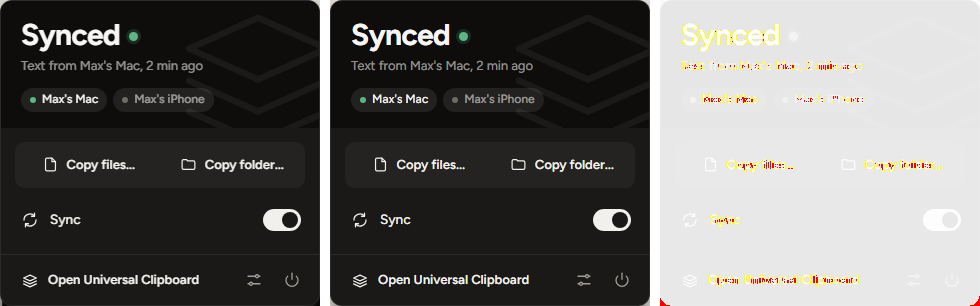
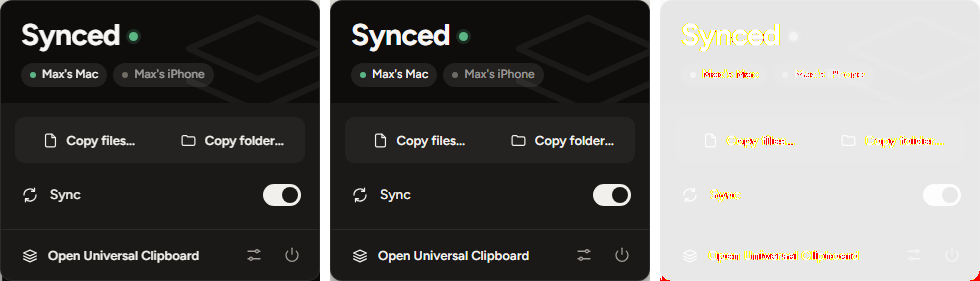
Tray panel: drop the unused status line code
The panel stopped showing the status line (Max 2026-11-17), but panelView still
worked it out. Removes sub, fact, shortAgo and the 30 s clock that only fed them.

diff --git a/apps/desktop/src/screens/panel.test.ts b/apps/desktop/src/screens/panel.test.ts
@@ -3,7 +3,7 @@ import { describe, expect, it } from 'vitest';
 import Panel from '../Panel.svelte';
 import { setApi } from '../lib/ipc';
 import { createMockApi, type Scenario } from '../lib/mock';
-import { panelView, shortAgo } from '../lib/panel';
+import { panelView } from '../lib/panel';
 import type { Device, Status } from '../lib/types';
 
 async function open(scenario: Scenario) {
@@ -35,16 +35,15 @@ const devs: Device[] = [
 
 describe('panelView', () => {
   const now = 1_000_000_000;
-  it('synced shows one short fact and the other devices', () => {
+  it('synced shows the other devices and no status line', () => {
     const v = panelView(
       status({ activity: [{ kind: 'Text', direction: 'received', device: "Max's Mac", time_ms: now - 120_000, note: null }] }),
       devs,
       null,
-      now,
     );
     expect(v.word).toBe('Synced');
     expect(v.lamp).toBe('ok');
-    expect(v.sub).toBe("Text from Max's Mac, 2 min ago");
+    expect(v).not.toHaveProperty('sub');
     expect(v.chips).toEqual([
       { name: "Max's Mac", on: true },
       { name: "Max's iPhone", on: false },
@@ -53,34 +52,27 @@ describe('panelView', () => {
   });
   it('a transfer is only a bar and a percent, no fact line', () => {
     const t = { id: '1', phase: 'receiving', device: "Max's Mac", done: 40, total: 100, files: 3 } as const;
-    const v = panelView(status({}), devs, t, now);
+    const v = panelView(status({}), devs, t);
     expect(v.word).toBe('Receiving');
     expect(v.xfer).toEqual({ up: false, pct: 40 });
-    expect(v.sub).toBeNull();
-    const s = panelView(status({}), devs, { ...t, phase: 'sending', done: 72 }, now);
+    const s = panelView(status({}), devs, { ...t, phase: 'sending', done: 72 });
     expect(s.word).toBe('Sending');
     expect(s.xfer).toEqual({ up: true, pct: 72 });
   });
   it('paused, not connected with the VPN note, needs attention, agent down', () => {
-    expect(panelView(status({ state: 'paused', paused: true }), devs, null, now)).toMatchObject({ word: 'Paused', lamp: 'off', paused: true, sub: null });
+    expect(panelView(status({ state: 'paused', paused: true }), devs, null)).toMatchObject({ word: 'Paused', lamp: 'off', paused: true });
     const vpn = panelView(
       status({ state: 'needs-attention', fix_code: 'vpn', reason: "Can't reach your other device? Your VPN blocks the local network." }),
       devs,
       null,
-      now,
     );
     expect(vpn).toMatchObject({ word: 'Not connected', lamp: 'warn' });
     expect(vpn.note).toEqual({ text: "Can't reach your other device? Your VPN blocks the local network.", fix: 'Show me how', route: 'vpn' });
-    const clock = panelView(status({ state: 'needs-attention', fix_code: 'clock', reason: 'The date and time are wrong.' }), devs, null, now);
+    const clock = panelView(status({ state: 'needs-attention', fix_code: 'clock', reason: 'The date and time are wrong.' }), devs, null);
     expect(clock.word).toBe('Needs attention');
     expect(clock.note?.route).toBeNull();
-    expect(panelView(null, devs, null, now)).toMatchObject({ word: 'Not running', lamp: 'warn' });
-    expect(panelView(status({ state: 'no-peers', connected: 0 }), devs, null, now).word).toBe('Not connected');
-  });
-  it('short times', () => {
-    expect(shortAgo(now - 5_000, now)).toBe('just now');
-    expect(shortAgo(now - 3 * 3_600_000, now)).toBe('3 h ago');
-    expect(shortAgo(now - 86_400_000, now)).toBe('1 day ago');
+    expect(panelView(null, devs, null)).toMatchObject({ word: 'Not running', lamp: 'warn' });
+    expect(panelView(status({ state: 'no-peers', connected: 0 }), devs, null).word).toBe('Not connected');
   });
 });
 

diff --git a/apps/desktop/src/lib/panel.ts b/apps/desktop/src/lib/panel.ts
@@ -1,15 +1,13 @@
 // The tray panel's view (tray spec 2.3, design docs/design/tray/panel.html): state word,
-// lamp, one short fact, device chips, the transfer bar and the one note. Minimal text: a
-// transfer shows only its bar and percent.
-import type { Activity, Device, Status, Transfer } from './types';
+// lamp, device chips, the transfer bar and the one note. Minimal text: a transfer shows only
+// its bar and percent, and there is no status line (Max 2026-11-17).
+import type { Device, Status, Transfer } from './types';
 
 export type Lamp = 'ok' | 'off' | 'warn';
 
 export interface PanelView {
   word: string;
   lamp: Lamp;
-  /** One short fact, only when synced: "Text from Max's Mac, 2 min ago". */
-  sub: string | null;
   chips: { name: string; on: boolean }[];
   /** The file copy that moves now: direction and percent. */
   xfer: { up: boolean; pct: number } | null;
@@ -18,32 +16,14 @@ export interface PanelView {
   paused: boolean;
 }
 
-/** "just now", "2 min ago", "3 h ago", "2 days ago" (short, for the panel). */
-export function shortAgo(ms: number, now: number): string {
-  const s = Math.max(0, Math.floor((now - ms) / 1000));
-  if (s < 60) return 'just now';
-  if (s < 3600) return `${Math.floor(s / 60)} min ago`;
-  if (s < 86_400) return `${Math.floor(s / 3600)} h ago`;
-  const d = Math.floor(s / 86_400);
-  return `${d} day${d === 1 ? '' : 's'} ago`;
-}
-
-function fact(a: Activity | undefined, now: number): string | null {
-  if (!a) return null;
-  if (a.direction === 'received' && a.device) return `${a.kind} from ${a.device}, ${shortAgo(a.time_ms, now)}`;
-  if (a.direction === 'sent') return `${a.kind} copied here, ${shortAgo(a.time_ms, now)}`;
-  return null;
-}
-
 export function panelView(
   status: Status | null,
   devices: Device[],
   transfer: Transfer | null,
-  now: number = Date.now(),
 ): PanelView {
   const chips = devices.filter((d) => !d.this).map((d) => ({ name: d.name, on: d.state === 'Connected' }));
   if (!status) {
-    return { word: 'Not running', lamp: 'warn', sub: null, chips, xfer: null, note: null, paused: false };
+    return { word: 'Not running', lamp: 'warn', chips, xfer: null, note: null, paused: false };
   }
   const t = transfer ?? status.transfer ?? null;
   const moving = !!t && t.phase !== 'idle';
@@ -51,7 +31,7 @@ export function panelView(
     ? { up: t!.phase !== 'receiving', pct: t!.total > 0 ? Math.min(100, Math.floor((t!.done * 100) / t!.total)) : 0 }
     : null;
   const paused = status.paused;
-  const base = { chips, xfer, paused, sub: null, note: null } as const;
+  const base = { chips, xfer, paused, note: null } as const;
   switch (status.state) {
     case 'needs-attention': {
       const code = status.fix_code ?? '';
@@ -74,11 +54,6 @@ export function panelView(
       return { ...base, word: moving ? (xfer!.up ? 'Sending' : 'Receiving') : 'Not connected', lamp: 'off' };
     default:
       if (moving) return { ...base, word: xfer!.up ? 'Sending' : 'Receiving', lamp: 'ok' };
-      return {
-        ...base,
-        word: 'Synced',
-        lamp: 'ok',
-        sub: fact((status.activity ?? []).find((a) => a.direction === 'sent' || a.direction === 'received'), now),
-      };
+      return { ...base, word: 'Synced', lamp: 'ok' };
   }
 }

diff --git a/apps/desktop/src/Panel.svelte b/apps/desktop/src/Panel.svelte
@@ -13,10 +13,9 @@
   let transfer = $state<Transfer | null>(null);
   let loaded = $state(false);
   let error = $state<string | null>(null);
-  let now = $state(Date.now());
   let card: HTMLDivElement | undefined = $state();
 
-  const v = $derived(panelView(status, devices, transfer, now));
+  const v = $derived(panelView(status, devices, transfer));
 
   async function load() {
     if (!api) return;
@@ -28,7 +27,6 @@
     } catch {
       status = null;
     }
-    now = Date.now();
     loaded = true;
   }
 
@@ -80,11 +78,9 @@
         ro.observe(card);
       }
     })();
-    const clock = setInterval(() => (now = Date.now()), 30_000);
     return () => {
       off?.();
       ro?.disconnect();
-      clearInterval(clock);
       window.removeEventListener('keydown', esc);
     };
   });
